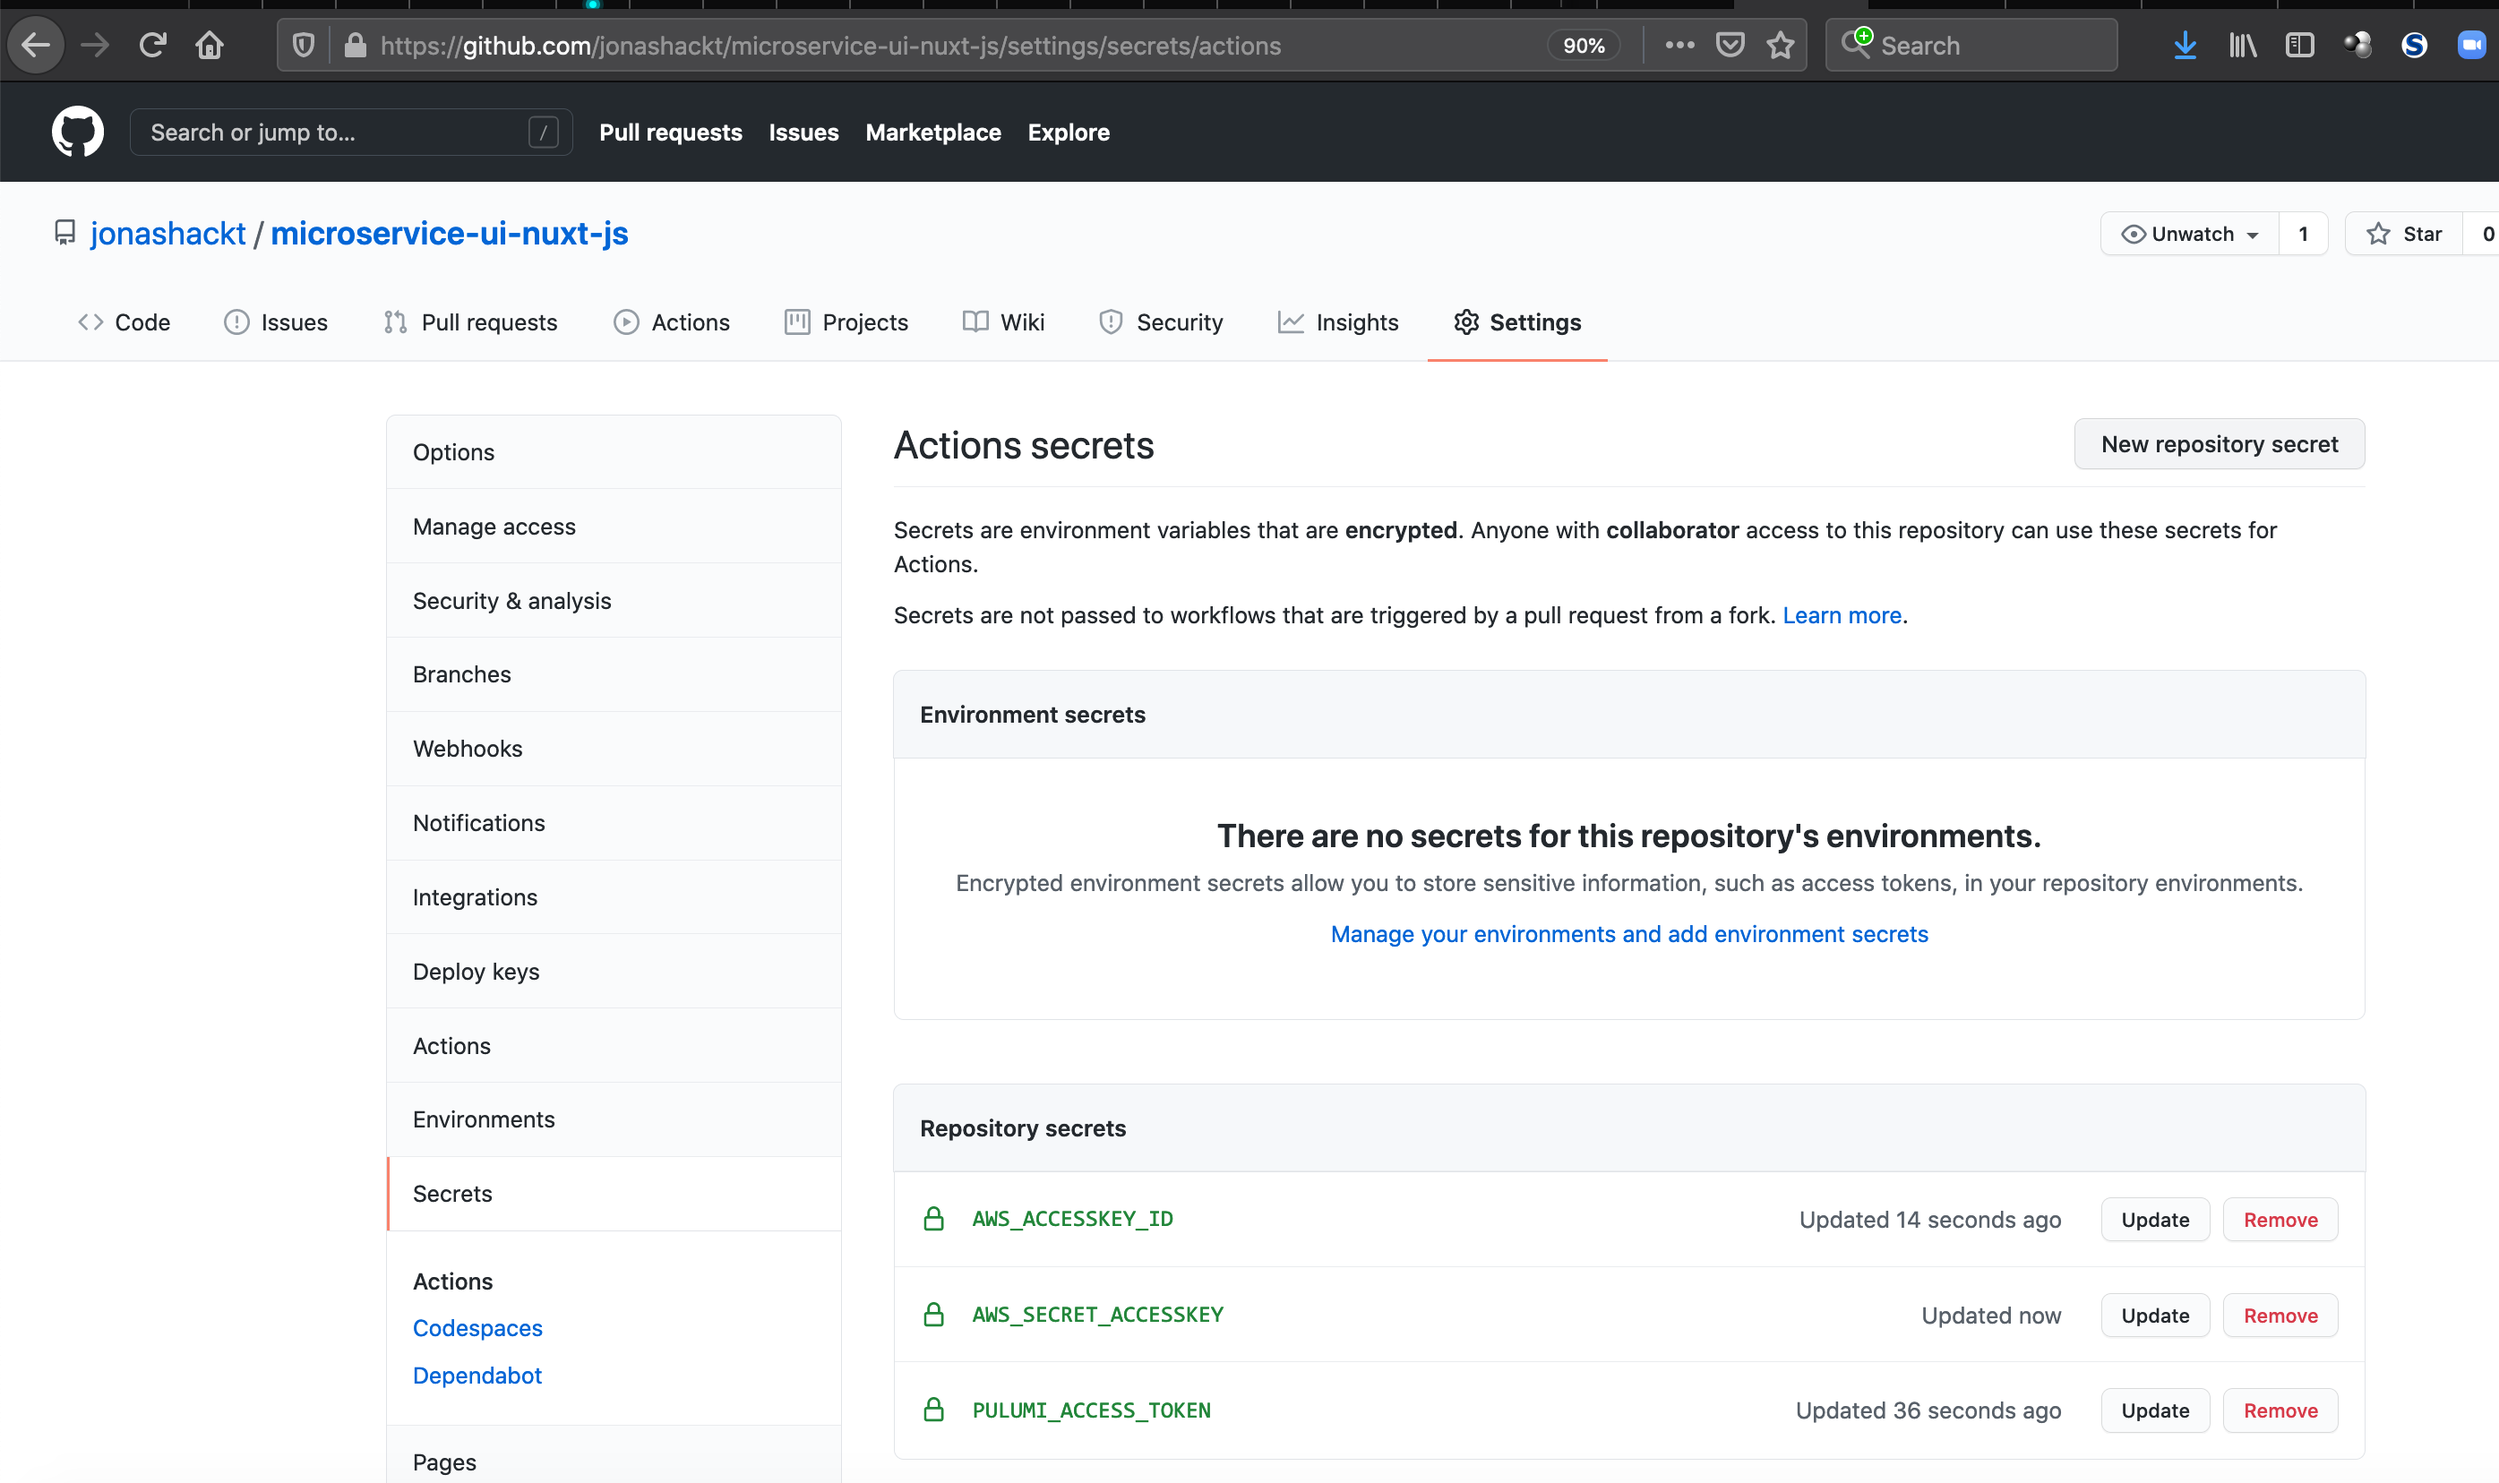
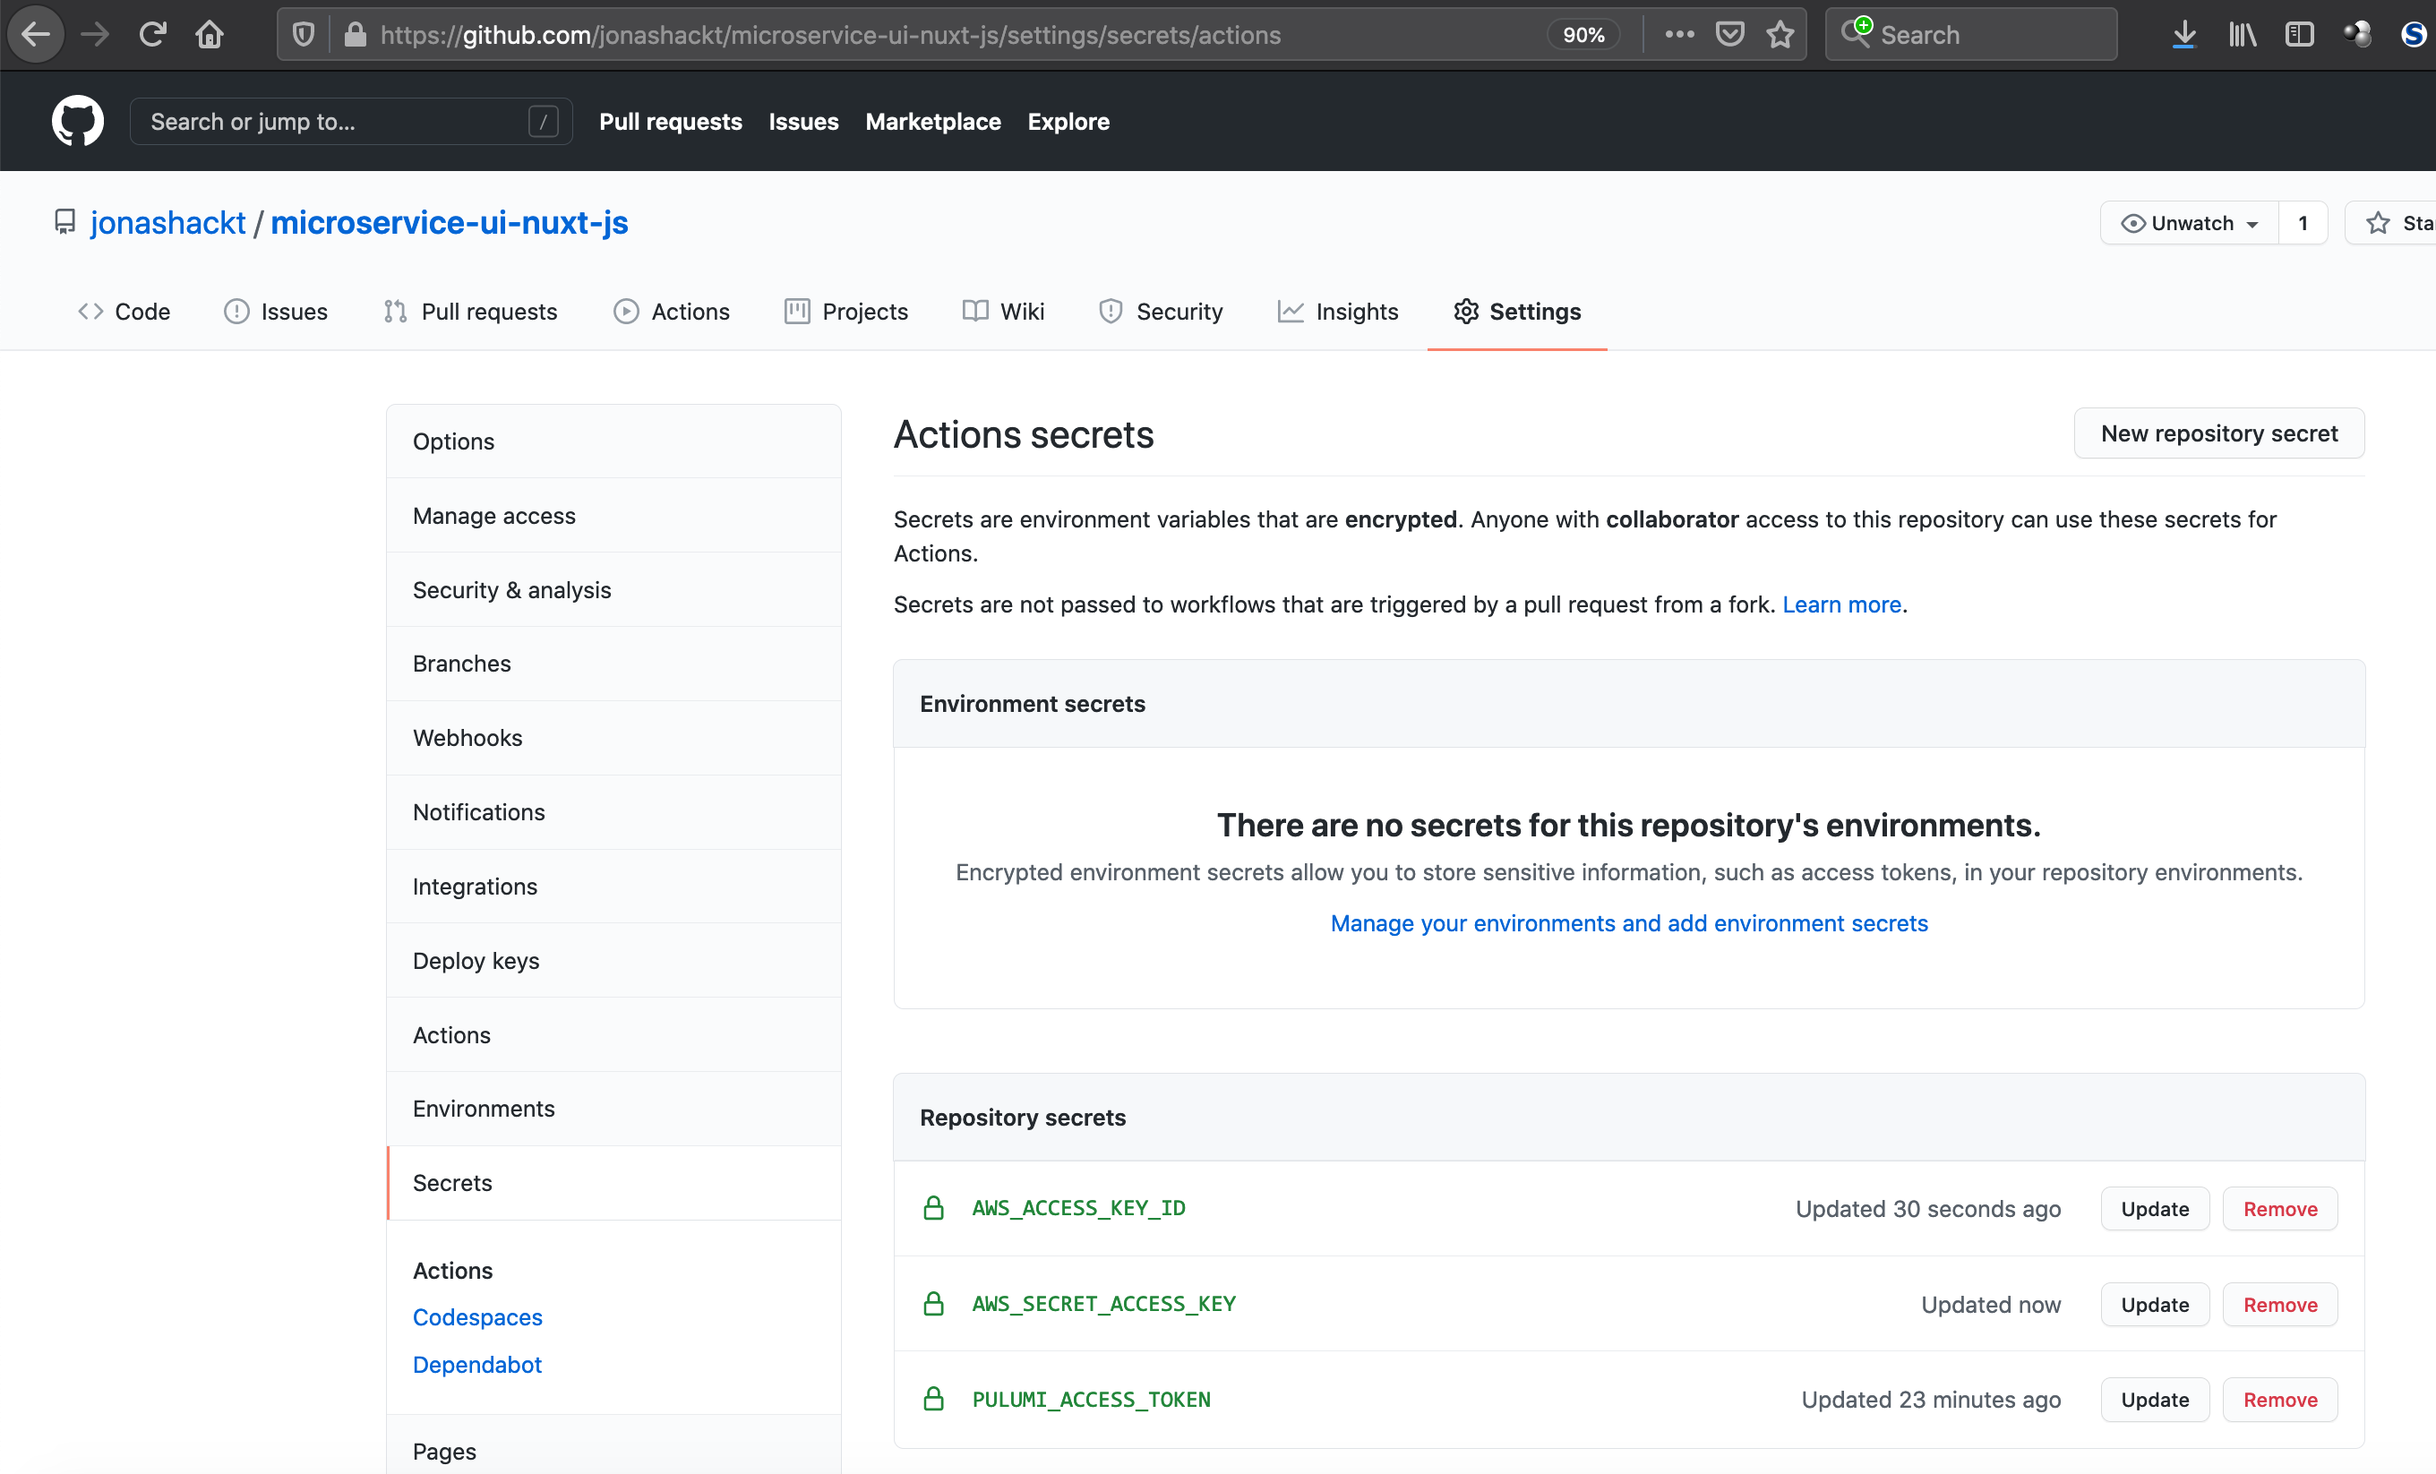
Correct AWS env namings

diff --git a/README.md b/README.md
@@ -195,7 +195,7 @@ First we need to create 5 new GitHub Repository Secrets (encrypted variables) in
 
 We should start to create a new Pulumi Access Token `PULUMI_ACCESS_TOKEN` at https://app.pulumi.com/jonashackt/settings/tokens
 
-Now we need to create the AWS specific variables: `AWS_ACCESSKEY_ID` and `AWS_SECRET_ACCESSKEY`. Create them all as GitHub Repository Secrets.
+Now we need to create the AWS specific variables: `AWS_ACCESS_KEY_ID` and `AWS_SECRET_ACCESS_KEY` (they need to be exactly named like this, see https://www.pulumi.com/docs/intro/cloud-providers/aws/setup/#environment-variables). Create them all as GitHub Repository Secrets.
 
 There should be all these vars defined:
 
